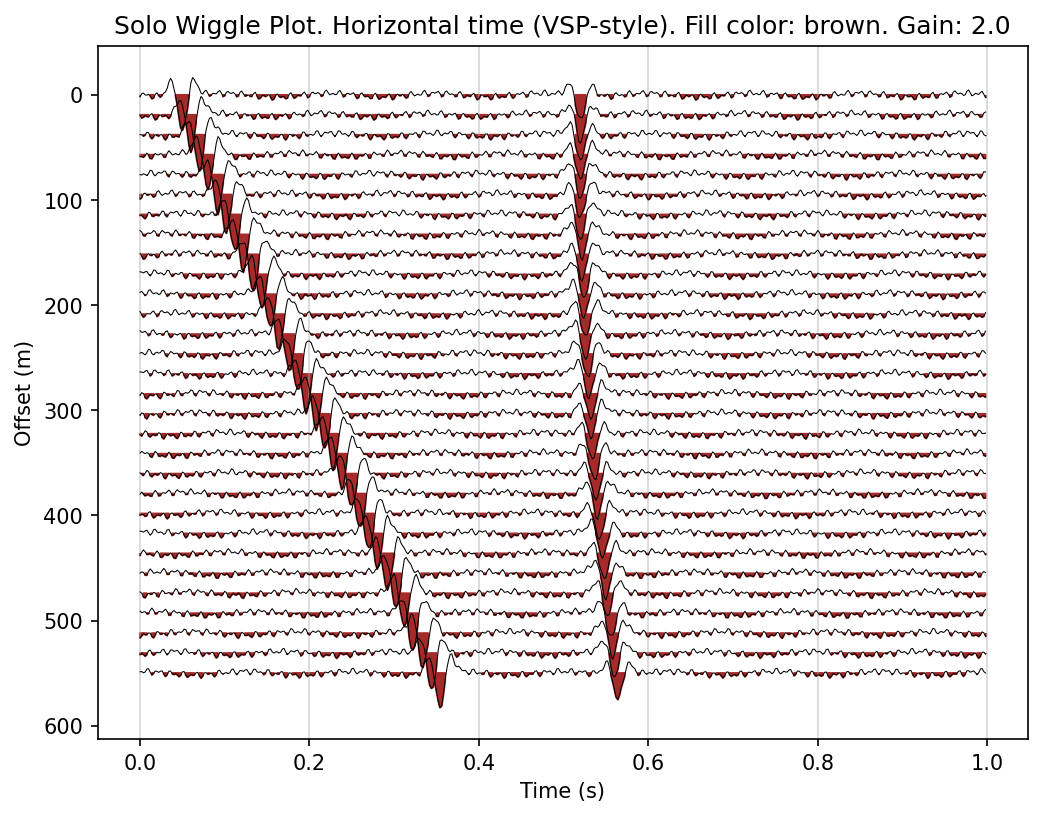
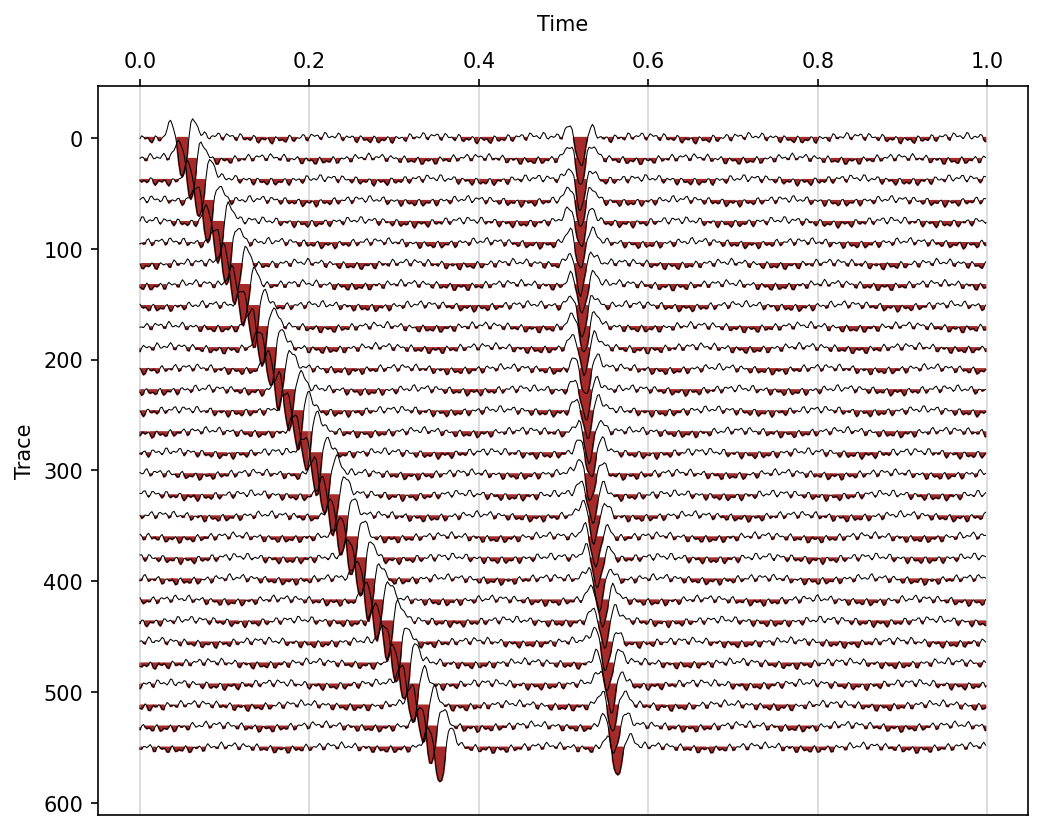
Moved x labels to the top

diff --git a/test.py b/test.py
@@ -105,11 +105,12 @@ def test_wiggle_plot_synthetic():
     ax_auto.set_xlabel("Offset (m)")
     auto_path = pics_dir / "solo_auto.png"
     fig_auto.savefig(auto_path, dpi=150, bbox_inches='tight')
+    plt.close(fig_auto)
     assert auto_path.exists()
 
     # Option with automatic figure/axis creation. Horizontal time axis.
     # Brown fill color.
-    fig_auto, ax_auto = wiggle_plot(
+    fig_horizontal, ax_horizontal = wiggle_plot(
         data,
         time_values=time,
         trace_values=offsets,
@@ -119,19 +120,20 @@ def test_wiggle_plot_synthetic():
         fill_color="brown"    
     )    
 
-    assert fig_auto is not None
+    assert fig_horizontal is not None
     assert ax_auto is not None  
 
     ax_auto.set_title("Solo Wiggle Plot. Horizontal time (VSP-style). Fill color: brown. Gain: 2.0")
     ax_auto.set_ylabel("Offset (m)")
     ax_auto.set_xlabel("Time (s)")
-    auto_path = pics_dir / "solo_horizontal.png"
-    fig_auto.savefig(auto_path, dpi=150, bbox_inches='tight')
+    horizontal_path = pics_dir / "solo_horizontal.png"
+    fig_horizontal.savefig(horizontal_path, dpi=150, bbox_inches='tight')
+    plt.close(fig_horizontal)
 
-    assert auto_path.exists()
+    assert horizontal_path.exists()
 
     # Option in provided subplot grid
-    fig, axes = plt.subplots(1, 3, figsize=(15, 5))
+    fig, axes = plt.subplots(1, 3, figsize=(15, 10), tight_layout=True)
     fig.suptitle("Wiggle plots inside Pyplot Subplots")
     dt = time[1] - time[0]  # time step
     filtered = _zero_phase_bandpass(data, dt=dt, lowcut=12.0, highcut=40.0)
@@ -141,9 +143,9 @@ def test_wiggle_plot_synthetic():
     wiggle_plot(filtered, time_values=time, trace_values=offsets, axis=axes[1], gain=1.0)
     wiggle_plot(residual, time_values=time, trace_values=offsets, axis=axes[2], gain=1.0)
 
-    axes[0].set_title("Original")
-    axes[1].set_title("Filtered")
-    axes[2].set_title("Residual")
+    axes[0].set_title("Original", pad=20)
+    axes[1].set_title("Filtered", pad=20)
+    axes[2].set_title("Residual", pad=20)
     axes[0].set_ylabel("Time (s)")
     axes[1].set_ylabel("Time (s)")
     axes[2].set_ylabel("Time (s)")
@@ -161,7 +163,7 @@ def test_wiggle_plot_synthetic():
     print(f"Saved: {auto_path}")
     print(f"Saved: {grid_path}")
 
-    plt.close(fig_auto)
+    
     plt.close(fig)
 
 

diff --git a/seiswiggle/seiswiggle.py b/seiswiggle/seiswiggle.py
@@ -135,6 +135,16 @@ def wiggle_plot(
         if time_grid:
             axis.grid(True, axis='x', alpha=0.5)
 
+    # Move horizontal axis ticks and labels to the top
+    axis.xaxis.tick_top()
+    axis.xaxis.set_label_position('top')
+    # Increase padding for axis label to create gap between x_label and title
+    axis.xaxis.labelpad = 10
+
+    # Adjust figure layout if axis was created to provide more space at the top
+    if created_axis:
+        fig.subplots_adjust(top=0.92)
+
     # -----------------------------------------
     # Return
     # -----------------------------------------

diff --git a/README.md b/README.md
@@ -45,7 +45,7 @@ data_filtered = median_filter(data, size=(5, 5))
 fig, ax = wiggle_plot(data)
 
 # Option 2. Call with subplots
-fig, axes = plt.subplots(1, 2, figsize=(10, 10))
+fig, axes = plt.subplots(1, 2, figsize=(10, 10), tight_layout=True)
 wiggle_plot(data, axis=axes[0])
 axes[0].set_title('Original data')
 wiggle_plot(data_filtered, axis=axes[1])
